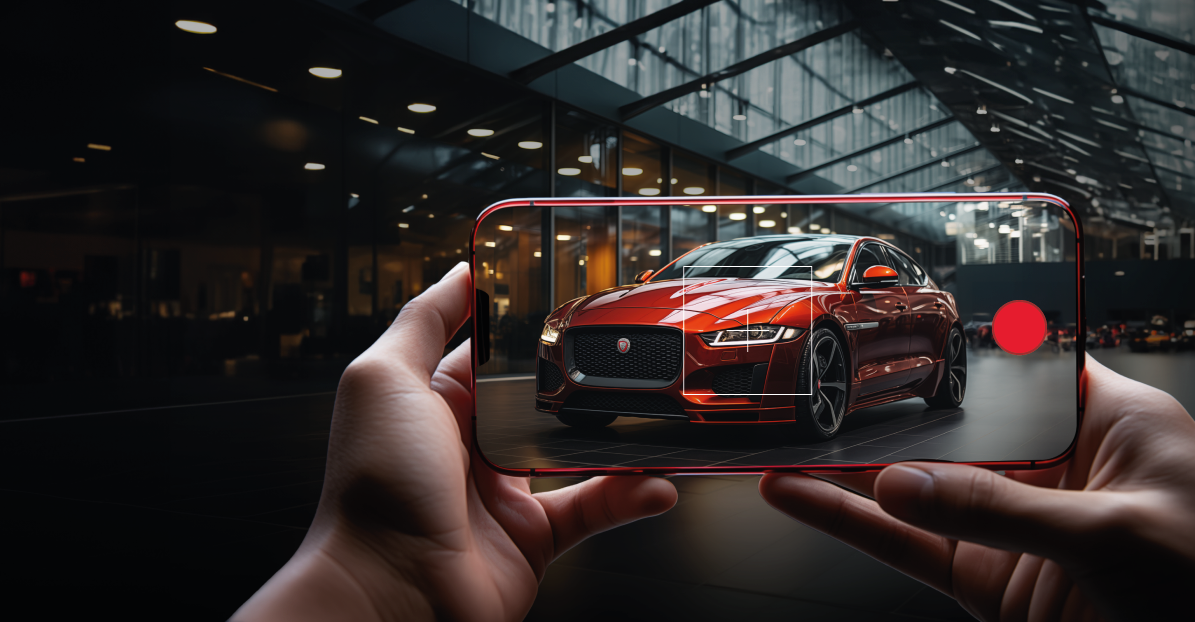
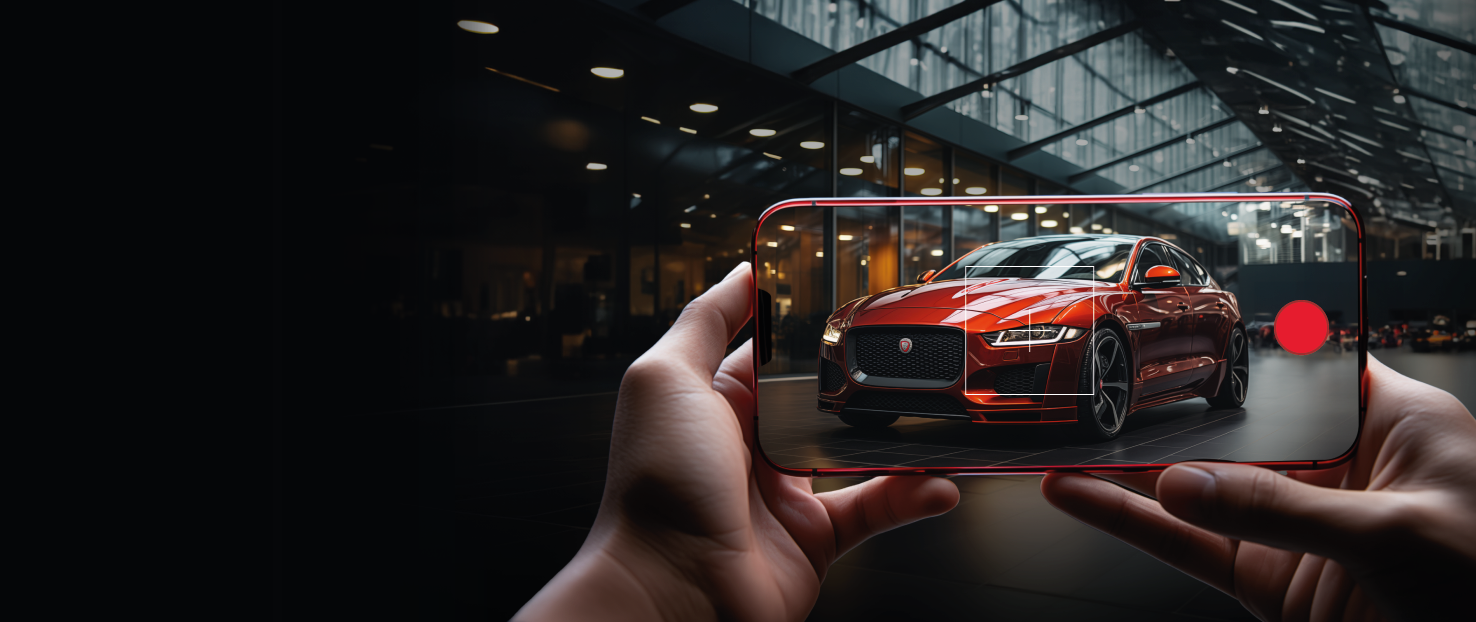
testing

diff --git a/style.css b/style.css
@@ -4,24 +4,26 @@
 	box-sizing: border-box;
 }
 
-.nav > i{
+.nav > button{
 	display: none;
-}
-
-.nav > .logo{
-	width: 120px;
 }
 
 .nav{
 	padding: 35px;
 	display: grid;
-	grid-template-columns: 150px auto 120px 160px 120px 50px;
+	grid-template-columns: 150px auto auto 50px;
 	align-items: center;
 }
 
-.nav > a{
+.nav > .menu{
+	display: flex;
+	justify-content: space-around;
+}
+
+.nav > .menu > a{
 	text-decoration: none;
 	color: black;
+	text-align: center;
 }
 
 .nav > select{
@@ -29,29 +31,31 @@
 	border: none;
 	background-image: url(./assets/Rectangle\ 18.svg);
 	background-repeat: no-repeat;
-	background-position: right 10px center;
+	background-position: 20px;
 	outline: none;
 	font-weight: 700;
 }
 
-.img-banner{
+.text-banner{
+	position: absolute;
 	display: grid;
 	justify-content: start;
-	grid-template-rows: 200px 180px 50px;
+	grid-template-rows: 180px 130px 50px;
 	color: #ffffff;
-	height: 622px;
-	background-image: linear-gradient(to right, rgb(0, 0, 0)37%, rgba(0, 0, 0, 0)50%), url(./assets/image1.png);
-	background-position: right;
-	font-size: 40px;
+	font-size: 24px;
 	font-weight: 300;
-	line-height: 60px;
+	line-height: 50px;
 	text-align: left;
 	padding: 81px 0 0 89px;
 }
 
-.img-banner > p{
+.img-banner > img{
+	width: 100%;
+}
+
+.text-banner > p{
 	font-family: Roboto;
-	font-size: 22px;
+	font-size: 20px;
 	font-weight: 300;
 	line-height: 26px;
 	letter-spacing: 0em;
@@ -63,90 +67,91 @@
  grid-template-columns: 200px auto;
 }
 
-.img-mob{
-	display: none;
-}
 @media screen and (max-width: 992px){
 	.nav{
-		padding: 35px;
+		padding: 20px;
 		display: grid;
-		grid-template-columns: 150px auto 100px 140px 100px 50px;
+		grid-template-columns: 150px auto auto 50px;
+	}
+
+	.text-banner{
+		display: absolute;
+		justify-content: center;
+		grid-template-rows: 90px 150px 50px;
 		align-items: center;
+		color: #ffffff;
+		font-size: 14px;
+		font-weight: 300;
+		line-height: 20px;
+		text-align: left;
+		padding: 35px;
+	}
+
+	.text-banner > p{
+		font-family: Roboto;
+		font-size: 13px;
+		font-weight: 300;
+		line-height: 15px;
+		letter-spacing: 0em;
+		text-align: left;
 	}
 	
 }
 
 @media screen and (max-width: 800px){
-	.nav > img{
-		width: 100px;
+	.nav > button{
+		display: inline-block;
+		display: flex;
+		justify-content: center;
+		background-color: white;
+		border:none;
 	}
-
-	.nav > p, select{
-		display: none;
-	}
-
-	.nav > i{
-		text-align: center;
-		display: block;
-		width: 100%;
-	}
-
+	
 	.nav{
-		padding: 15px;
-		display: grid;
-		grid-template-columns: auto 30px;
+		padding: 20px;
+		display: flex;
+		justify-content: space-between;
 		align-items: center;
 	}
-
-	.nav > a{
+	
+	.nav > p, .nav > select, .nav > .menu > a{
 		display: none;
 	}
 	
-	.img-banner{
+	.text-banner{
+		position: relative;
 		display: grid;
-		grid-template-rows: 80px 100px 50px;
 		justify-content: center;
-		justify-items: center;
+		grid-template-rows: 90px 100px 50px;
+		align-items: center;
 		color: #000000;
-		width: auto;
-		background: none;
-		height: auto;
-		background-repeat: no-repeat;
-		background-size: 50px;
-		font-size: 15px;
-		font-weight: 300;
-		line-height: 26px;
-		text-align: center;
-		padding: 16px;
-		align-items: center;
-	}
-
-	.logos-apps{
-		display: grid;
-		grid-template-columns: 130px 120px;
-		align-items: center;
-	}
-
-	.img-banner > p{
-		font-family: Roboto;
 		font-size: 14px;
 		font-weight: 300;
+		line-height: 20px;
+		text-align: center;
+		padding: 0;
+	}
+	
+	.img-banner > img{
+		display:;
+	}
+	
+	.text-banner > p{
+		font-family: Roboto;
+		font-size: 13px;
+		font-weight: 300;
 		line-height: 15px;
+		letter-spacing: 0em;
 		text-align: center;
 	}
-
-	.logos-apps > img{
-		height: 70%;
-		display: flex;
-		flex-direction: row;
+	
+	.logos-apps{
+	 	display: grid;
+	 	grid-template-columns: auto auto;
+	 	justify-content: space-evenly;
 	}
 
-	.img-mob{
-		width: 100vw;
-		display: block;
-	}
-
-	.img-mob > img{
-		width: 100vw;
+	.logos-apps > a >img{
+		width: 100px;
 	}
 }

diff --git a/index.html b/index.html
@@ -6,39 +6,43 @@
 	<link rel="stylesheet" href="./style.css">
 	<script src="https://kit.fontawesome.com/e6c5878191.js" crossorigin="anonymous"></script>
 </header>
-	<title>Document</title>
+	<title>Tourbit</title>
 </head>
 <body>
-	<nav>
-		<div class="nav">
-			<img class="logo" src="./assets/logo.svg" alt="logo-turbic">
-			<p>Virtual tour capture system</p>
-			<a href="#">Product</a>
-			<a href="#">Download App</a>
-			<a href="#">About</a>
-			<select name="" id="">
-				<option value="">EN</option>
-				<option value="">SP</option>
-			</select>
-			<i class="fa-solid fa-bars"></i>
+	<nav class="nav">
+		<img src="./assets/logo.svg" alt="logo-turbic">
+		<p>Virtual tour capture system</p>
+		<div class="menu active" id="menu">
+			<a href="https://media1.tenor.com/m/J_7-UH7oUMEAAAAC/jesus-bailar%C3%ADn.gif">Product</a>
+			<a href="https://media1.tenor.com/m/J_7-UH7oUMEAAAAC/jesus-bailar%C3%ADn.gif">Download App</a>
+			<a href="https://media1.tenor.com/m/J_7-UH7oUMEAAAAC/jesus-bailar%C3%ADn.gif">About</a>
 		</div>
+		<select name="" id="">
+			<option value="">EN</option>
+			<option value="">SP</option>
+		</select>
+		<button>
+			<i class="fa-solid fa-bars"></i>
+		</button>	
 	</nav>
-	<div class="img-banner">
-		<h2>The one-stop solution to<br>
+	<div>
+		<div class="text-banner">
+			<h2>The one-stop solution to<br>
 			capture & showcase your cars<br>
 			online.
-		</h2>
-		<p>Seamlessly capture and showcase every detail of<br>
+			</h2>
+			<p>Seamlessly capture and showcase every detail of<br>
 			your cars in seconds – ready for publishing on your<br>
 			website or any digital platform.
-		</p>
-		<div class="logos-apps">
-			<img src="./assets/App_Store.svg" alt="App_Store">
-			<img src="./assets/Google_Play.svg" alt="Google_Play">
+			</p>
+			<div class="logos-apps">
+				<a href="https://media1.tenor.com/m/J_7-UH7oUMEAAAAC/jesus-bailar%C3%ADn.gif"><img src="./assets/App_Store.svg" alt="App_Store"></a>
+				<a href="https://media1.tenor.com/m/J_7-UH7oUMEAAAAC/jesus-bailar%C3%ADn.gif"><img src="./assets/Google_Play.svg" alt="Google_Play"></a>
+			</div>
 		</div>
-	</div>
-	<div class="img-mob">
-		<img src="./assets/image1.png" alt"img-banner">
+		<div class="img-banner">
+			<img src="./assets/image1.png" alt"img-banner">
+		</div>
 	</div>
 </body>
 </html>
